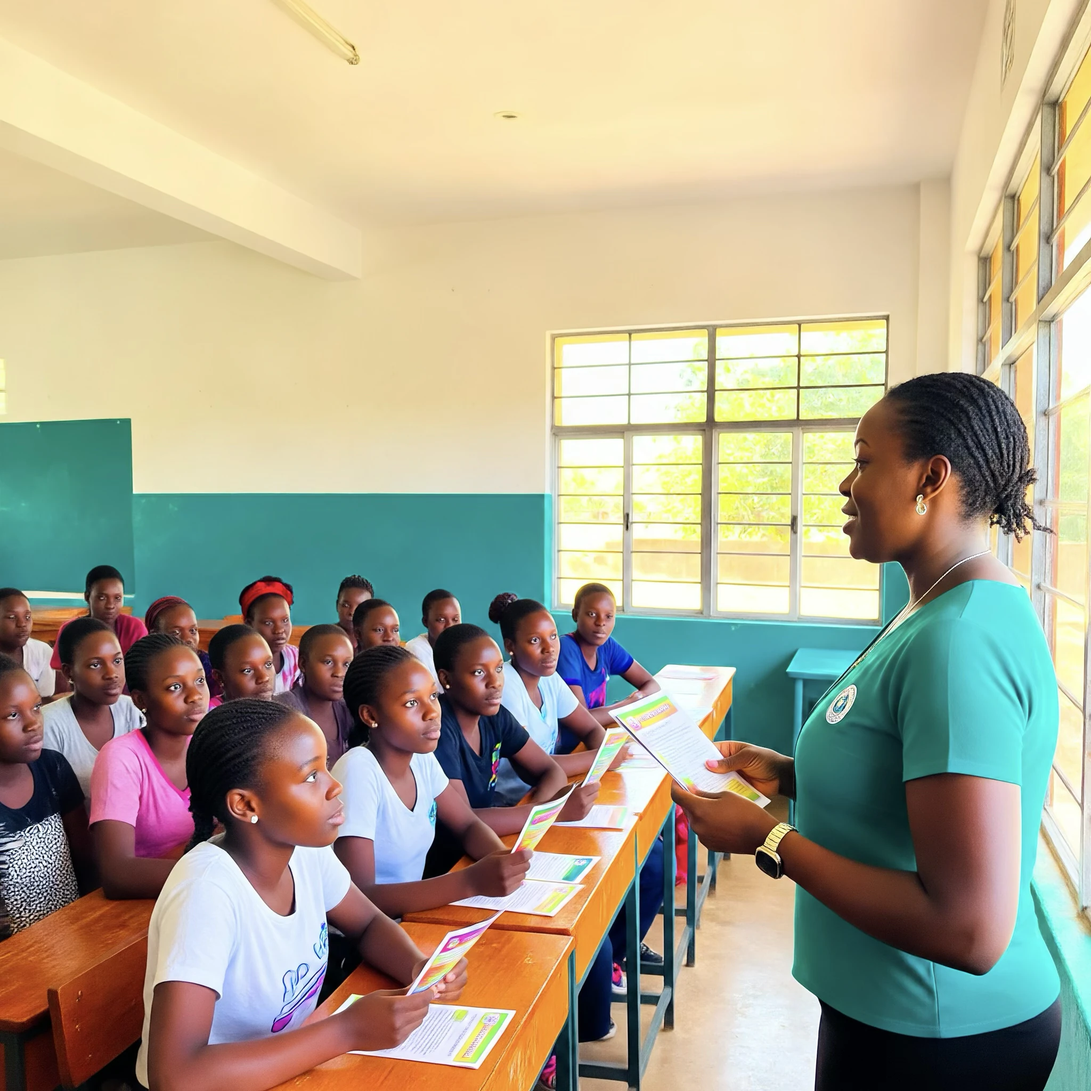
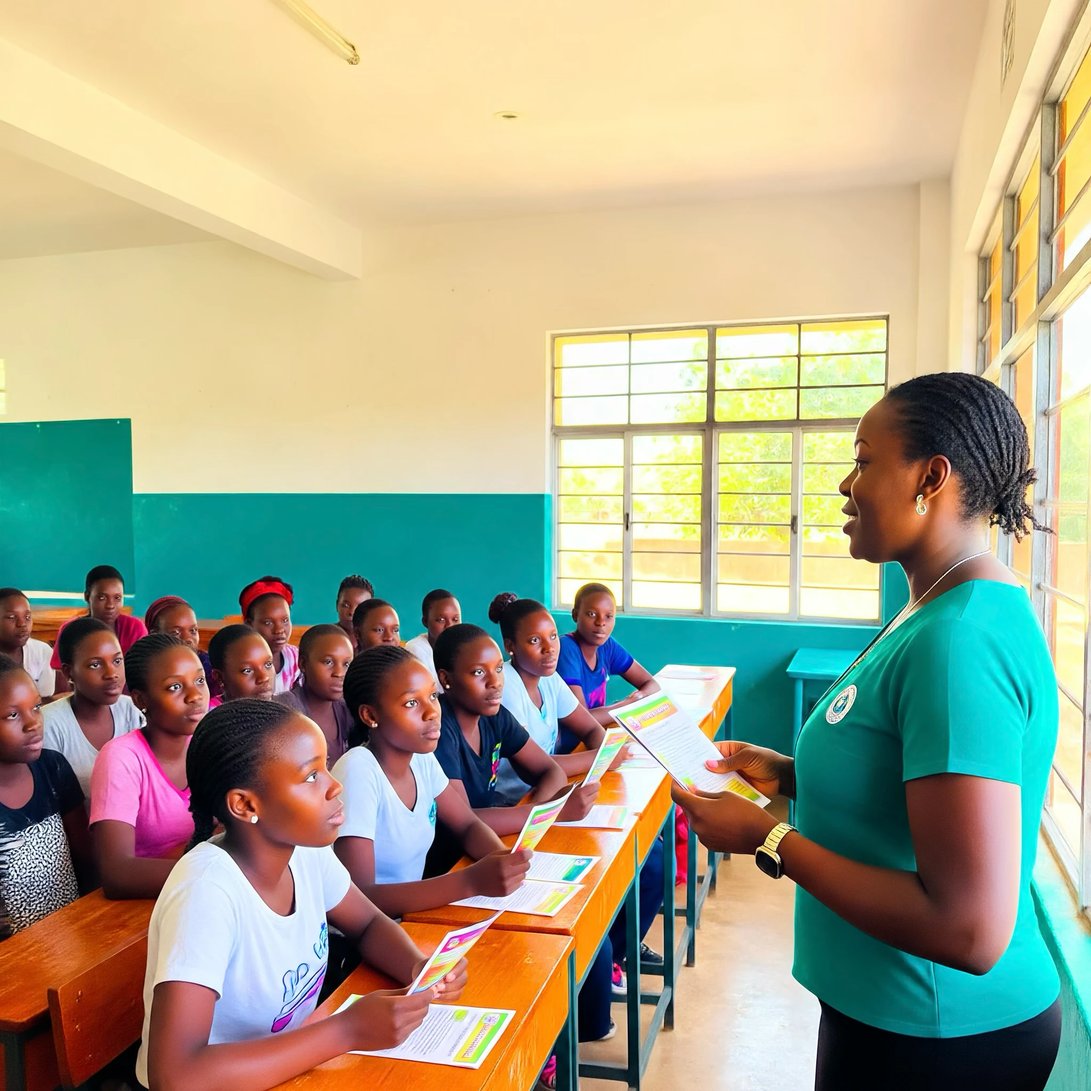
Menu : liens de nouveau visibles a l'ouverture (animation a depart et arrivee explicites) ; photos Display P3 converties en sRGB pour des couleurs fideles

diff --git a/index.html b/index.html
@@ -607,10 +607,11 @@ class Component extends DCLogic {
       .to(el, { '--m1': '100%', duration: 0.65 }, 0.06)
       .to(lead, { '--l2': '100%', duration: 0.6 }, 0.2)
       .to(lead, { '--l1': '100%', duration: 0.7 }, 0.26)
-      .from(el.querySelectorAll('[data-mla]'), { yPercent: 110, rotation: 2, duration: 0.7, stagger: 0.045, ease: 'power3.out' }, 0.38)
-      .from(el.querySelector('[data-msoc]'), { y: 16, opacity: 0, duration: 0.5, ease: 'power2.out' }, 0.75);
+      // Départ et arrivée explicites : avec un simple .from(), la position finale des liens était mal lue et ils restaient cachés.
+      .fromTo(el.querySelectorAll('[data-mla]'), { y: 0, yPercent: 110, rotation: 2 }, { y: 0, yPercent: 0, rotation: 0, duration: 0.7, stagger: 0.045, ease: 'power3.out', clearProps: 'transform' }, 0.38)
+      .fromTo(el.querySelector('[data-msoc]'), { y: 16, opacity: 0 }, { y: 0, opacity: 1, duration: 0.5, ease: 'power2.out', clearProps: 'transform,opacity' }, 0.75);
     if (ph) tl.fromTo(ph, { clipPath: 'polygon(100% 0,100% 0,100% 100%,100% 100%)' }, { clipPath: 'polygon(12% 0,100% 0,100% 100%,0 100%)', duration: 0.9, ease: 'power3.inOut' }, 0.35)
-      .from(ph.querySelector('img'), { scale: 1.18, duration: 1.2, ease: 'power3.out' }, 0.35);
+      .fromTo(ph.querySelector('img'), { scale: 1.18 }, { scale: 1, duration: 1.2, ease: 'power3.out', clearProps: 'transform' }, 0.35);
   }
 
 
